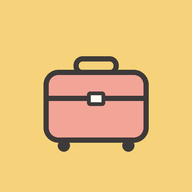
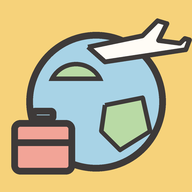
主畫面圖示改成滿版地球＋飛機

diff --git a/sw.js b/sw.js
@@ -1,6 +1,6 @@
 /* 旅行手帳 service worker: the page shell and libraries are cached so the notebook opens offline.
    Trip data itself comes from the page's own local cache; Supabase API calls are never cached here. */
-const V = 'tn-v2';
+const V = 'tn-v3';
 const SHELL = ['./', './index.html', './manifest.webmanifest', './icon-192.png', './icon-512.png', './apple-touch-icon.png'];
 self.addEventListener('install', e => { e.waitUntil(caches.open(V).then(c => c.addAll(SHELL)).then(() => self.skipWaiting())); });
 self.addEventListener('activate', e => { e.waitUntil(caches.keys().then(ks => Promise.all(ks.filter(k => k !== V).map(k => caches.delete(k)))).then(() => self.clients.claim())); });

diff --git a/index.html b/index.html
@@ -6,8 +6,8 @@
 <meta name="robots" content="noindex,nofollow">
 <meta name="theme-color" content="#FFFCF6">
 <link rel="manifest" href="manifest.webmanifest">
-<link rel="icon" href="icon-192.png">
-<link rel="apple-touch-icon" href="apple-touch-icon.png">
+<link rel="icon" href="icon-192.png?v=2">
+<link rel="apple-touch-icon" href="apple-touch-icon.png?v=2">
 <meta name="apple-mobile-web-app-capable" content="yes">
 <meta name="mobile-web-app-capable" content="yes">
 <meta name="apple-mobile-web-app-title" content="旅行手帳">
